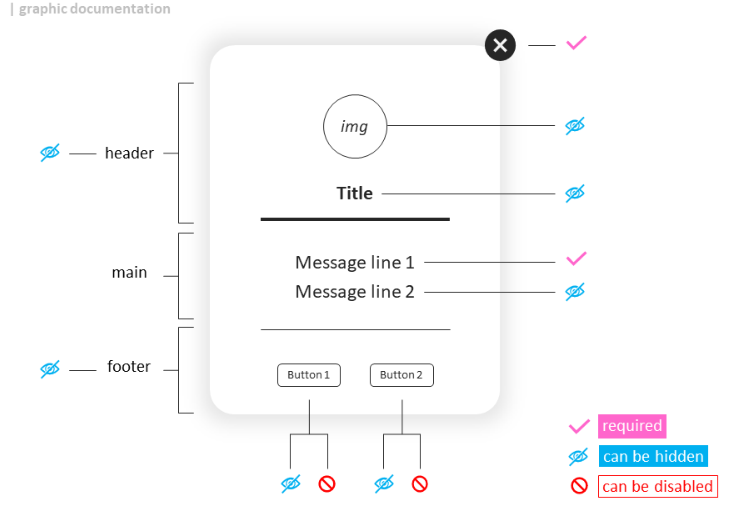
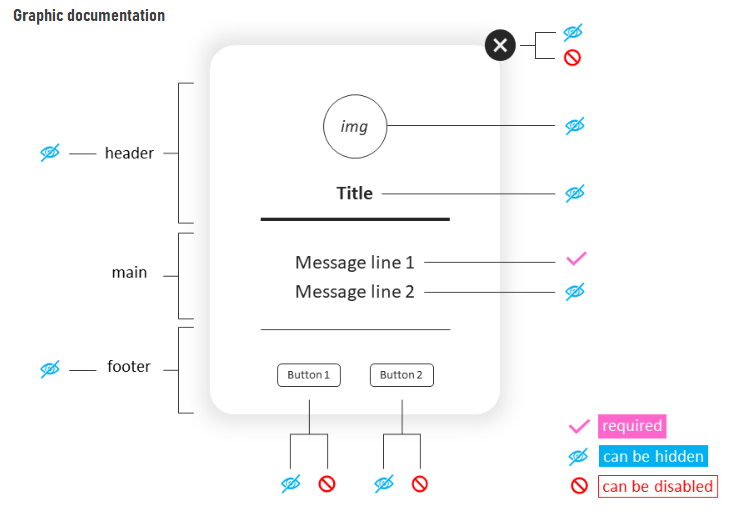
[enhancement] add spinner, fadeDuration , closeClass, update doc

Changed region(s): [[0.0, 0.0, 0.2398, 0.0623], [0.7193, 0.0311, 0.8093, 0.1245]]

diff --git a/dist/component/Modal.js b/dist/component/Modal.js
@@ -4,8 +4,12 @@ Object.defineProperty(exports, "__esModule", {
   value: true
 });
 exports.default = void 0;
+require("core-js/modules/web.dom-collections.iterator.js");
 var _reactDom = require("react-dom");
+var _propTypes = _interopRequireDefault(require("prop-types"));
+var _react = require("react");
 var _jsxRuntime = require("react/jsx-runtime");
+function _interopRequireDefault(obj) { return obj && obj.__esModule ? obj : { default: obj }; }
 function Modal(_ref) {
   let {
     modal,
@@ -26,14 +30,34 @@ function Modal(_ref) {
     hideBtn2,
     redirect,
     disableBtn1 = '',
-    disableBtn2 = ''
+    disableBtn2 = '',
+    hideBtnClose,
+    showSpinner,
+    modalClass,
+    spinnerHtml,
+    closeClass,
+    fadeDuration = 0
   } = _ref;
   if (disableBtn1) disableBtn1 = 'disabled';
   if (disableBtn2) disableBtn2 = 'disabled';
+  if (!modalClass) modalClass = '';
+  if (!closeClass) closeClass = '';
+  const [spinner, setSpinner] = (0, _react.useState)(showSpinner);
+  (0, _react.useEffect)(() => {
+    if (spinner) {
+      setTimeout(() => {
+        setSpinner(false);
+      }, 2500);
+    }
+    //value of state is used here therefore must be passed as a dependency
+  }, [spinner]);
   return /*#__PURE__*/(0, _reactDom.createPortal)( /*#__PURE__*/(0, _jsxRuntime.jsx)(_jsxRuntime.Fragment, {
-    children: modal ? /*#__PURE__*/(0, _jsxRuntime.jsx)("main", {
+    children: modal && (!spinner || spinner === false) ? /*#__PURE__*/(0, _jsxRuntime.jsx)("main", {
       autoFocus: true,
-      className: "modal",
+      className: "modal ".concat(modalClass),
+      style: {
+        animationDelay: "".concat(fadeDuration, "ms")
+      },
       role: "main"
       // close modal when click outside of it
       ,
@@ -49,8 +73,8 @@ function Modal(_ref) {
         tabIndex: -1,
         "aria-labelledby": "dialogTitle",
         "aria-describedby": "dialogDescription",
-        children: [/*#__PURE__*/(0, _jsxRuntime.jsx)("button", {
-          className: "modal-container--close",
+        children: [hideBtnClose ? null : /*#__PURE__*/(0, _jsxRuntime.jsx)("button", {
+          className: "modal-container--close ".concat(closeClass),
           "aria-label": "Close",
           onClick: close,
           children: /*#__PURE__*/(0, _jsxRuntime.jsx)("img", {
@@ -103,8 +127,53 @@ function Modal(_ref) {
           })]
         })]
       })
-    }) : null
+    }) : /*#__PURE__*/(0, _jsxRuntime.jsx)("div", {
+      children: spinner && modal && !spinnerHtml ? /*#__PURE__*/(0, _jsxRuntime.jsx)("div", {
+        className: "modal-spinner--time",
+        children: /*#__PURE__*/(0, _jsxRuntime.jsx)("div", {
+          className: "spinner-box",
+          children: /*#__PURE__*/(0, _jsxRuntime.jsx)("div", {
+            className: "loading-icon"
+          })
+        })
+      }) : spinner && modal && spinnerHtml ? /*#__PURE__*/(0, _jsxRuntime.jsx)("div", {
+        dangerouslySetInnerHTML: {
+          __html: spinnerHtml
+        }
+      }) : null
+    })
   }), document.body);
 }
+
+/**
+ * Modal PROPTYPES
+ */
+Modal.propTypes = {
+  modal: _propTypes.default.bool.isRequired,
+  close: _propTypes.default.func.isRequired,
+  x: _propTypes.default.string,
+  icon: _propTypes.default.string,
+  hideIcon: _propTypes.default.bool,
+  title: _propTypes.default.string,
+  hideTitle: _propTypes.default.bool,
+  msgL1: _propTypes.default.string.isRequired,
+  msgL2: _propTypes.default.string,
+  hideMsgL2: _propTypes.default.bool,
+  btn1: _propTypes.default.string,
+  disableBtn1: _propTypes.default.bool,
+  hideBtn1: _propTypes.default.bool,
+  btn2: _propTypes.default.string,
+  redirect: _propTypes.default.func,
+  disableBtn2: _propTypes.default.bool,
+  hideBtn2: _propTypes.default.bool,
+  hideHeader: _propTypes.default.bool,
+  hideFooter: _propTypes.default.bool,
+  hideBtnClose: _propTypes.default.bool,
+  modalClass: _propTypes.default.string,
+  closeClass: _propTypes.default.string,
+  showSpinner: _propTypes.default.bool,
+  spinnerHtml: _propTypes.default.string,
+  fadeDuration: _propTypes.default.number
+};
 var _default = Modal;
 exports.default = _default;

diff --git a/src/exemple/index.jsx b/src/exemple/index.jsx
@@ -25,13 +25,15 @@ function Exemple() {
         modal={isOpen} // useModal hook
         close={toggle} // useModal hook
         x={close} // replace with the name of your import
+        escapeClose={true}
         // hideBtnClose={true} // decomment to hide btnClose
         // modalClass="custom-modal-class"
+        // closeClass="custom-close-class"
         showSpinner={true}
-        // spinnerHtml='<div className="test"></div>'
-        // fadeDuration={fadeDuration}
+        // spinnerHtml='<div className="Myclass"></div>'
+        // fadeDuration={10}
         // fadeDelay={fadeDelay}
-        escapeClose={true}
+
         // ADDITIONAL (optional)
         icon={check} // replace with the name of your import
         title="Confirmation" // replace with any string
@@ -44,15 +46,16 @@ function Exemple() {
         // DISABLE (optional)
         // disableBtn1={true}           // decomment to disable btn1
         // disableBtn2={true}           // comment to enable btn2
+
         // HIDE (optional)
         // hideBtnClose={true}          // decomment to hide btnClose
-        // hideIcon={true} // decomment to hide icon
+        // hideIcon={true}              // decomment to hide icon
         // hideTitle={true}             // decomment to hide title
         // hideMsgL2={true}             // decomment to hide msgL2
         // hideBtn1={true}              // decomment to hide btn1
         // hideBtn2={true}              // decomment to hide btn2
         // hideHeader={true}            // decomment to hide header
-        // hideFooter={true} // decomment to hide footer
+        // hideFooter={true}            // decomment to hide footer
       />
     </>
   )

diff --git a/src/lib/component/Modal.jsx b/src/lib/component/Modal.jsx
@@ -27,19 +27,20 @@ function Modal({
   showSpinner,
   modalClass,
   spinnerHtml,
+  closeClass,
+  fadeDuration = 0,
 }) {
   if (disableBtn1) disableBtn1 = 'disabled'
   if (disableBtn2) disableBtn2 = 'disabled'
   if (!modalClass) modalClass = ''
+  if (!closeClass) closeClass = ''
 
   const [spinner, setSpinner] = useState(showSpinner)
 
   useEffect(() => {
     if (spinner) {
-      console.log('test')
       setTimeout(() => {
         setSpinner(false)
-        console.log('test2')
       }, 2500)
     }
     //value of state is used here therefore must be passed as a dependency
@@ -51,6 +52,7 @@ function Modal({
         <main
           autoFocus
           className={`modal ${modalClass}`}
+          style={{ animationDelay: `${fadeDuration}ms` }}
           role="main"
           // close modal when click outside of it
           onClick={() => {
@@ -69,7 +71,7 @@ function Modal({
           >
             {hideBtnClose ? null : (
               <button
-                className="modal-container--close"
+                className={`modal-container--close ${closeClass}`}
                 aria-label="Close"
                 onClick={close}
               >
@@ -156,6 +158,7 @@ function Modal({
     document.body
   )
 }
+
 /**
  * Modal PROPTYPES
  */
@@ -181,6 +184,10 @@ Modal.propTypes = {
   hideFooter: PropTypes.bool,
   hideBtnClose: PropTypes.bool,
   modalClass: PropTypes.string,
+  closeClass: PropTypes.string,
+  showSpinner: PropTypes.bool,
+  spinnerHtml: PropTypes.string,
+  fadeDuration: PropTypes.number,
 }
 
 export default Modal

diff --git a/dist/styles/Modal.css b/dist/styles/Modal.css
@@ -121,3 +121,57 @@
   outline: none;
   box-shadow: 0 0 0 1.5px var(--diabled-text);
 }
+
+/* SPINNER */
+.spinner-box {
+  position: absolute;
+  left: 47%;
+  top: 45%;
+}
+
+.loading-icon {
+  display: flex;
+  border: 10px solid #f3f3f3;
+
+  border-top: 10px solid var(--tertiary);
+
+  border-radius: 50%;
+  width: 60px;
+  height: 60px;
+  text-align: center;
+  animation-name: spin;
+  animation-duration: 30ms;
+  transition-timing-function: linear;
+  animation-iteration-count: infinite;
+  animation: spin 2s linear infinite;
+}
+
+
+.loading-icon div {
+  margin: auto;
+}
+
+@keyframes spin {
+  0% {
+    transform: rotate(0deg);
+  }
+
+  100% {
+    transform: rotate(360deg);
+  }
+}
+
+.modal-spinner--time {
+  position: fixed;
+  top: 0;
+  left: 0;
+  width: 100%;
+  height: 100%;
+  background-color: #000;
+  opacity: 0.8;
+  box-sizing: border-box;
+  padding: 20px;
+  color: #fff;
+  /* z-index: 2; */
+  animation-duration: 2s;
+}

diff --git a/dist/component/useModal.js b/dist/component/useModal.js
@@ -10,16 +10,15 @@ var _react = require("react");
 function useModal() {
   // Modal's state
   const [isOpen, setIsOpen] = (0, _react.useState)(false);
-
   // Close modal when open
   function toggle() {
     setIsOpen(!isOpen);
   }
-  function escToClose() {
-    if (escToClose.key === 'Escape') {
+  const escToClose = e => {
+    if (e.keyCode === 27) {
       toggle();
     }
-  }
+  };
   return {
     isOpen,
     toggle,

diff --git a/src/lib/styles/Modal.css b/src/lib/styles/Modal.css
@@ -172,6 +172,6 @@
   box-sizing: border-box;
   padding: 20px;
   color: #fff;
-  z-index: 2;
+  /* z-index: 2; */
   animation-duration: 2s;
 }

diff --git a/README.md b/README.md
@@ -155,30 +155,37 @@ export default function Exemple() {
       </button>
 
       <Modal
-        // MINIMAL (required)
-        modal={isOpen}                  // useModal hook
-        close={toggle}                  // useModal hook
-        x={close}                       // replace with the name of your import
+        modal={isOpen} // useModal hook
+        close={toggle} // useModal hook
+        x={close} // replace with the name of your import
+        escapeClose={true}
+        // hideBtnClose={true} // decomment to hide btnClose
+        // modalClass="custom-modal-class"
+        // closeClass="custom-close-class"
+        // showSpinner={true}
+        // spinnerHtml='<div className="Myclass"></div>'
+        // fadeDuration={10}
 
         // ADDITIONAL (optional)
-        icon={check}                    // replace with the name of your import
-        title="Confirmation"            // replace with any string
-        msgL1="Modal plugin"            // replace with any string
-        msgL2="successfully installed"  // replace with any string
-        btn1="Back"                     // replace with any string
-        btn2="Redirect"                 // replace with any string
+        icon={check} // replace with the name of your import
+        title="Confirmation" // replace with any string
+        msgL1="Modal plugin" // replace with any string
+        msgL2="successfully installed" // replace with any string
+        btn1="Back" // replace with any string
+        btn2="Redirect" // replace with any string
         // redirect={goTo}              // !!! NEEDS APP ROUTING
 
         // DISABLE (optional)
         // disableBtn1={true}           // decomment to disable btn1
-        disableBtn2={true}              // comment to enable btn2
+        // disableBtn2={true}           // comment to enable btn2
 
         // HIDE (optional)
+        // hideBtnClose={true}          // decomment to hide btnClose
         // hideIcon={true}              // decomment to hide icon
         // hideTitle={true}             // decomment to hide title
-        // hideMsgL2 ={true}            // decomment to hide msgL2
-        // hideBtn1 ={true}             // decomment to hide btn1
-        // hideBtn2 ={true}             // decomment to hide btn2
+        // hideMsgL2={true}             // decomment to hide msgL2
+        // hideBtn1={true}              // decomment to hide btn1
+        // hideBtn2={true}              // decomment to hide btn2
         // hideHeader={true}            // decomment to hide header
         // hideFooter={true}            // decomment to hide footer
       />
